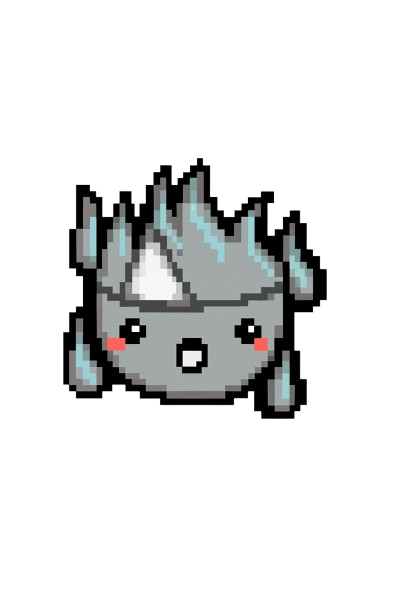
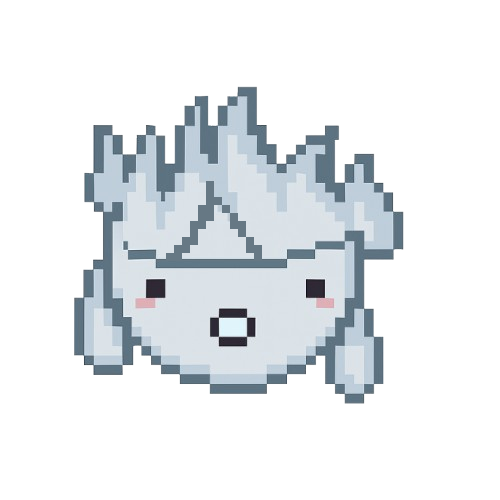
Fixed some sprite issues and added the rest of 'known' StudyMons

Changed region(s): [[0.1471, 0.15, 0.8235, 0.81]]

diff --git a/src/components/Shared/CreatureSprite.jsx b/src/components/Shared/CreatureSprite.jsx
@@ -1,21 +1,31 @@
 // Import all StudyMon sprites
-import flameling from '../../assets/studymons/flameling.png'
-import leaflet from '../../assets/studymons/leaflet.png'
-import zapling from '../../assets/studymons/zapling.png'
-import frostbite from '../../assets/studymons/frostbite.png'
+import aquatot from '../../assets/studymons/aquatot.png'
 import boulder from '../../assets/studymons/boulder.png'
-import psycat from '../../assets/studymons/psycat.png'
+import dragling from '../../assets/studymons/dragling.png'
+import flameling from '../../assets/studymons/flameling.png'
+import frostbite from '../../assets/studymons/frostbite.png'
+import ironclad from '../../assets/studymons/ironclad.png'
+import leaflet from '../../assets/studymons/leaflet.png'
 import phantom from '../../assets/studymons/phantom.png'
+import psycat from '../../assets/studymons/psycat.png'
+import shadowpup from '../../assets/studymons/shadowpup.png'
+import sparkwing from '../../assets/studymons/sparkwing.png'
+import zapling from '../../assets/studymons/zapling.png'
 
 // Map creature names to their sprites
 const spriteMap = {
-  flameling,
-  leaflet,
-  zapling,
-  frostbite,
+  aquatot,
   boulder,
+  dragling,
+  flameling,
+  frostbite,
+  ironclad,
+  leaflet,
+  phantom,
   psycat,
-  phantom
+  shadowpup,
+  sparkwing,
+  zapling
 }
 
 function CreatureSprite({ creatureName, emoji, className = "text-6xl", size = null }) {
